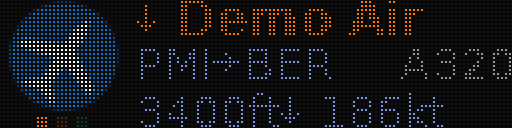
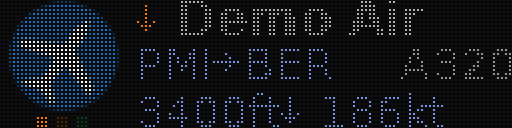
Airline in Flugzeilen neutral grau, nur der Pfeil in Statusfarbe
Bei orangen Airlines (easyJet) verschwamm der amberfarbene Name mit dem
Logo. Jetzt zeigt der Pfeil den Status, Name und Rufzeichen stehen in
NAME (175, 175, 175), in allen drei Layouts. Karten unverändert
(Frame-Vergleich), Doku-Bilder neu.

diff --git a/server/flightpanel/render.py b/server/flightpanel/render.py
@@ -25,7 +25,7 @@ from PIL import Image
 
 from .aircraft import second_line, shown_elsewhere
 from .cards import CARDS, fun
-from .colors import CLOCK, GOLD, INFO, MUTED, dim
+from .colors import CLOCK, GOLD, INFO, MUTED, NAME, dim
 from .config import INFO_PAGES, Config
 from .draw import ROW1, ROW2, ROW3, STATUS_COLORS, headline, line, right, status_glyph
 from .fonts import FONT_BIG, FONT_MID, FONT_SMALL
@@ -257,7 +257,7 @@ class Renderer:
 
         # Zeile 1: Pfeil + Airline (oder Callsign, wenn kein Name bekannt)
         name = fl.airline or fl.callsign
-        headline(img, x0, ROW1, f"{status_glyph(fl.status)} {name}", STATUS_COLORS[fl.status], f, avail)
+        headline(img, x0, ROW1, f"{status_glyph(fl.status)} {name}", NAME, f, avail, lead=STATUS_COLORS[fl.status])
 
         # Zeile 2: Route, sonst was der Flug ist, sonst ?→BER; rechtsbündig der Typ
         route = second_line(fl.origin, fl.dest, fl.status, fl.label, self.cfg.local_airport_iata)
@@ -283,9 +283,9 @@ class Renderer:
             cs = ""
         csw = FONT_BIG.text_width(cs) if cs else 0
         col = STATUS_COLORS[fl.status]
-        headline(img, 0, ROW1, head, col, f, W - (csw + 6 if cs else 0))
+        headline(img, 0, ROW1, head, NAME, f, W - (csw + 6 if cs else 0), lead=col)
         if cs:
-            right(img, FONT_BIG, ROW1, cs, col, f)
+            right(img, FONT_BIG, ROW1, cs, NAME, f)
 
         # Zeile 2: Route, sonst was der Flug ist, sonst ?→BER; Typ rechts
         route = second_line(fl.origin, fl.dest, fl.status, fl.label, self.cfg.local_airport_iata)
@@ -314,7 +314,7 @@ class Renderer:
             col = dim(STATUS_COLORS[fl.status], f)
             name = fl.airline or fl.callsign
             x = FONT_SMALL.draw(img, 0, y, f"{status_glyph(fl.status)} ", col)
-            x = FONT_SMALL.draw(img, x, y, FONT_SMALL.fit(name, 60), col)
+            x = FONT_SMALL.draw(img, x, y, FONT_SMALL.fit(name, 60), dim(NAME, f))
             info = f"{fl.other_airport[:3]} {alt_text(fl)}".strip()
             if fl.actype and FONT_SMALL.text_width(info + " " + fl.actype) <= W - x - 6:
                 info = f"{info} {fl.actype}"

diff --git a/server/flightpanel/draw.py b/server/flightpanel/draw.py
@@ -35,13 +35,21 @@ def line(img: Image.Image, x: int, y: int, s: str, c: Color, f: float, max_w: in
     return FONT_SMALL.draw(img, x, y + FONT_MID.cap_height - FONT_SMALL.cap_height, FONT_SMALL.fit(s, max_w), dim(c, f))
 
 
-def headline(img: Image.Image, x: int, y: int, s: str, c: Color, f: float, max_w: int) -> int:
+def headline(img: Image.Image, x: int, y: int, s: str, c: Color, f: float, max_w: int,
+             lead: Color | None = None) -> int:
     """Zeile 1 eines Flugs oder einer Karte: fett, passt sie nicht, in FONT_MID, dann
-    FONT_SMALL (bündig mit der Unterkante der Großbuchstaben), erst dann gekürzt ("Germanwin")."""
+    FONT_SMALL (bündig mit der Unterkante der Großbuchstaben), erst dann gekürzt ("Germanwin").
+    lead: Farbe des ersten Worts (Statuspfeil), der Rest in c."""
     for font in (FONT_BIG, FONT_MID):
         if font.text_width(s) <= max_w:
-            return font.draw(img, x, y + FONT_BIG.cap_height - font.cap_height, s, dim(c, f))
-    return FONT_SMALL.draw(img, x, y + FONT_BIG.cap_height - FONT_SMALL.cap_height, FONT_SMALL.fit(s, max_w), dim(c, f))
+            break
+    else:
+        font, s = FONT_SMALL, FONT_SMALL.fit(s, max_w)
+    y += FONT_BIG.cap_height - font.cap_height
+    end = font.draw(img, x, y, s, dim(c, f))
+    if lead is not None:
+        font.draw(img, x, y, s.split(" ", 1)[0], dim(lead, f))      # dieselben Pixel, andere Farbe
+    return end
 
 
 def center(img: Image.Image, font: Font, y: int, s: str, c: Color, f: float, x0: int = 0,

diff --git a/server/flightpanel/colors.py b/server/flightpanel/colors.py
@@ -5,6 +5,7 @@ DEP_C = (0, 210, 70)        # Abflug, grün
 OVF_C = (70, 120, 230)      # Überflug, blau
 INFO = (120, 150, 230)
 MUTED = (150, 150, 150)
+NAME = (175, 175, 175)      # Airline in Flugzeilen: neutral, damit sie sich vom Logo abhebt; Status zeigt der Pfeil
 CLOCK = (140, 70, 0)
 RED = (230, 30, 30)
 GOLD = (230, 170, 20)

diff --git a/README.md b/README.md
@@ -67,7 +67,7 @@ Bis zu `MAX_FLIGHTS` Flüge wechseln sich ab, jeder mit allen Infoseiten, mindes
 
 ![Landung mit Logo: Pfeil und Airline, Route und Typ, "landet in ~4 min"; darunter drei Himmelspunkte](docs/images/flight-logo.png)
 
-**Layouts** (`LAYOUT`): **C** mit Logo links (32 × 32), rechts drei Zeilen; **A** ohne Logo über die ganze Breite; **B** zwei Flüge, je eine Zeile. Ohne Logo steht in C ein graues Symbol an seiner Stelle, damit Text und Himmelspunkte im Wechsel stehen bleiben: ein Flugzeug bei Airlines, ein Kleinflugzeug oder ein Hubschrauber bei Privatfliegern. Zeile 1: Pfeil (↓ Landung, ↑ Start, → Überflug) und Airline. Zeile 2: Route, sonst was der Flug ist (Luftrettung, Polizei, Kleinflugzeug: aus `airlines.json`, ADS-B-Kategorie oder Kennzeichen), sonst `?→BER` oder `BER→?`; rechts der Typ. Zeile 3 wechselt (`INFO_PAGES`): "landet in ~7 min", Höhe und Tempo, Entfernung und Kurs, Rufzeichen. Farben: Landung amber, Start grün, Überflug blau, kein Weiß.
+**Layouts** (`LAYOUT`): **C** mit Logo links (32 × 32), rechts drei Zeilen; **A** ohne Logo über die ganze Breite; **B** zwei Flüge, je eine Zeile. Ohne Logo steht in C ein graues Symbol an seiner Stelle, damit Text und Himmelspunkte im Wechsel stehen bleiben: ein Flugzeug bei Airlines, ein Kleinflugzeug oder ein Hubschrauber bei Privatfliegern. Zeile 1: Pfeil (↓ Landung, ↑ Start, → Überflug) und Airline. Zeile 2: Route, sonst was der Flug ist (Luftrettung, Polizei, Kleinflugzeug: aus `airlines.json`, ADS-B-Kategorie oder Kennzeichen), sonst `?→BER` oder `BER→?`; rechts der Typ. Zeile 3 wechselt (`INFO_PAGES`): "landet in ~7 min", Höhe und Tempo, Entfernung und Kurs, Rufzeichen. Farben: Der Pfeil zeigt den Status (Landung amber, Start grün, Überflug blau), die Airline steht neutral in Grau, damit sie sich vom Logo abhebt; kein Weiß.
 
 ![Abflug ohne Logo: graues Flugzeug als Platzhalter, Eurowings, BER→PMI, A319; die Himmelspunkte stehen wie beim Flug mit Logo](docs/images/flight-nologo.png)
 
